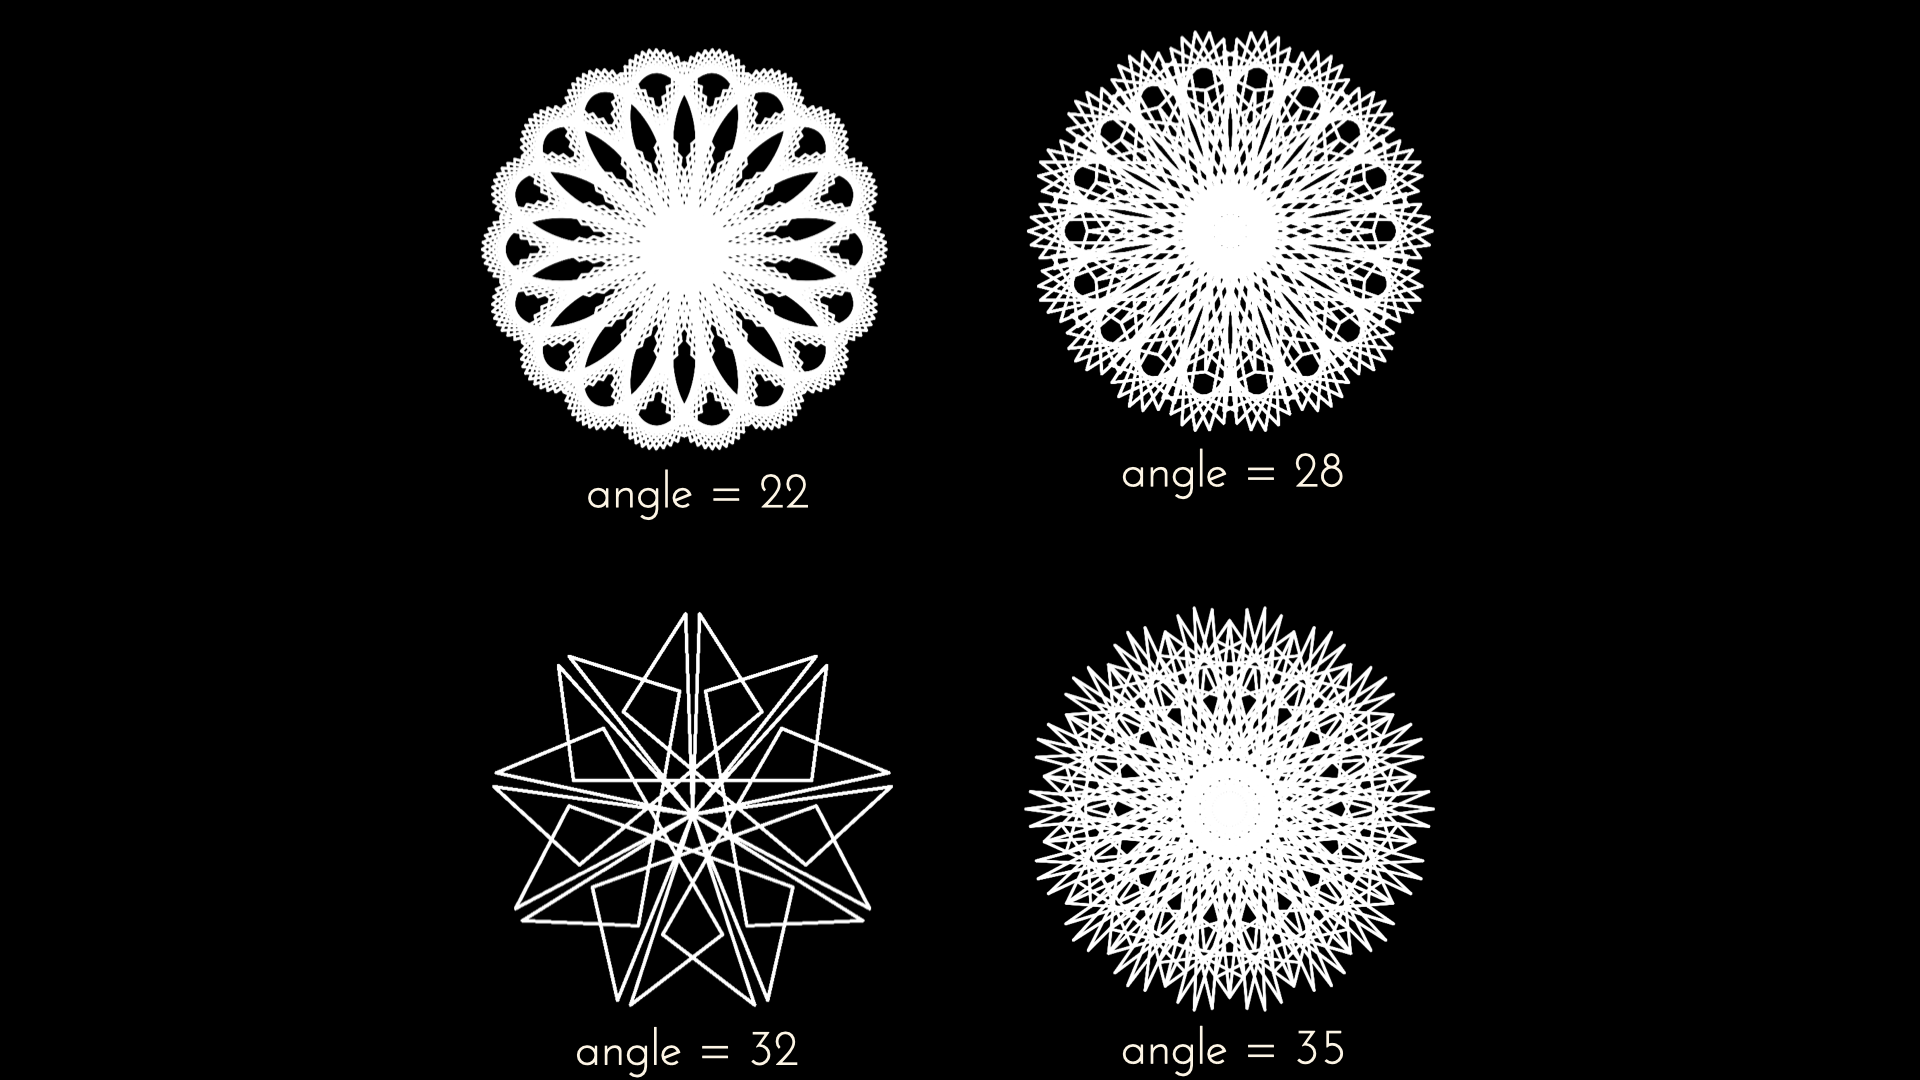
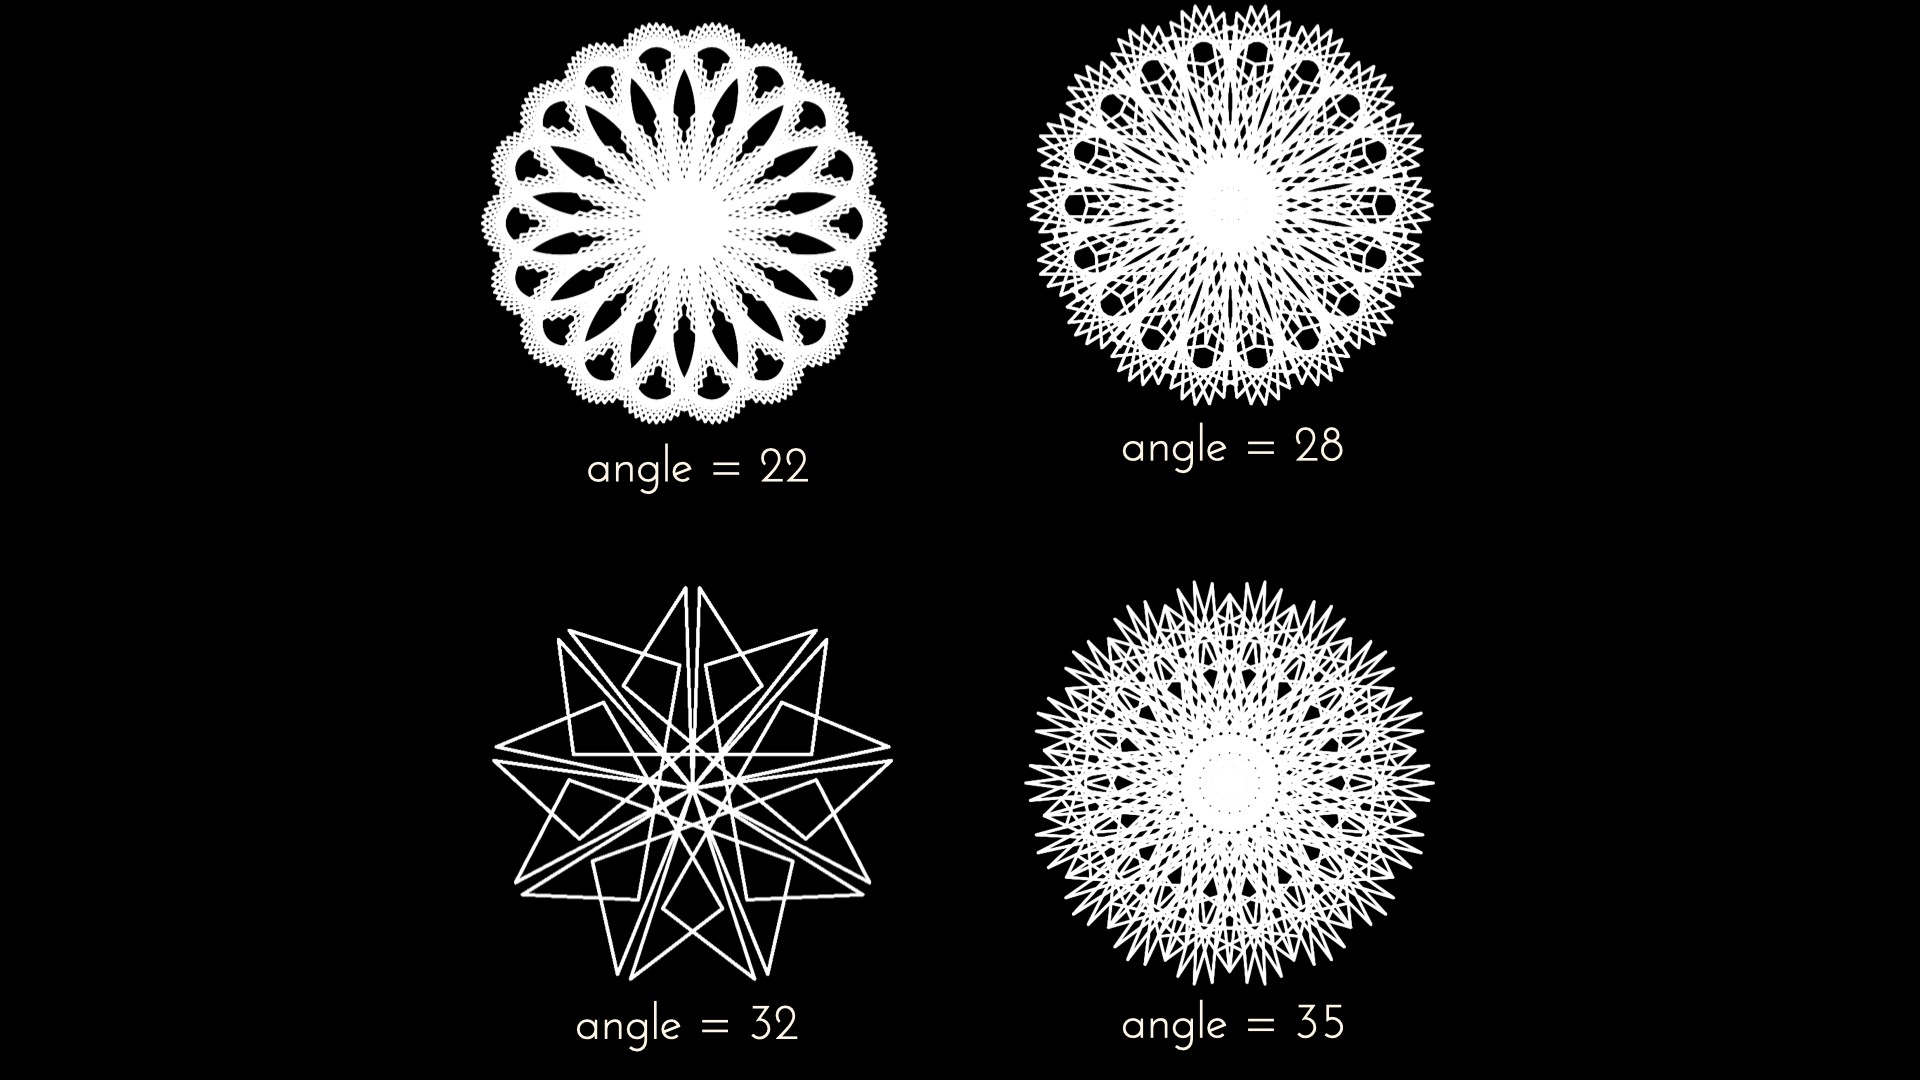
feat: completed article about rose curve

diff --git a/articles/rose-curve-variations.md b/articles/rose-curve-variations.md
@@ -1,8 +1,8 @@
 ---
-title: "バラ曲線を微分・積分して楽しい絵を描く"
+title: "バラ曲線を変化させて美しい絵を描く"
 emoji: "🎨"
 type: "tech"
-topics: ["p5js", "Generative Art", "備忘録", ""]
+topics: ["p5js", "Generative Art", "備忘録"]
 published: false
 ---
 
@@ -10,13 +10,12 @@ published: false
 
 今回はバラ曲線（rose curve）を触っていて面白いものが描けたので，備忘録として書き残しておきます．
 
-※ご存じの方には「あ〜，あれね」となるかもしれませんが，ご容赦ください🙇
 
 # バラ曲線とは？
 
 __正葉曲線，別名バラ曲線（rose curve）__ とは，ざっくり言うと極座標 `(r, θ)` において，以下の方程式で表される曲線のことです💁
 
-![バラ曲線の方程式](https://vantan-techford-p5js-slide.vercel.app/13/assets/rose-equation.600a7b37.png =300x)
+![バラ曲線の方程式](https://vantan-techford-p5js-slide.vercel.app/13/assets/rose-equation.600a7b37.png =250x)
 
 極座標ですので，直交座標（厳密にはデカルト座標）に変換する必要があり，上記の式で導出された `r` を用いて以下の式で直交座標に戻してあげます．[^1]
 
@@ -69,7 +68,7 @@ function draw() {
 
 ![バラ曲線のコードと実行結果](https://storage.googleapis.com/zenn-user-upload/fcb718e760f4-20230116.png)
 # 色々弄って遊ぶ
-ここから少しずつ色々弄ってみます 🙋
+ここから少しずつ変化させて遊んでいきます🙋
 
 ## アニメーション化
 
@@ -101,7 +100,7 @@ function draw() {
 +   x = range * cos(angle);
 +   y = range * sin(angle);
 +   point(x, y)
-+   angle++;
++   angle += 2;
   }
 ```
 
@@ -131,7 +130,7 @@ function draw() {
    y = range * sin(angle);
 -  point(x, y);
 +  line(bx, by, x, y);
--  angle++;
+-  angle += 2;
 +  angle += 3;
   }
 ```
@@ -184,13 +183,15 @@ function draw() {
 ![angle を大きくした場合のバラ曲線のプロット](/images/big_angle_rose_curve.png)
 
 
-上手いことカクついたそれぞれの頂点が重なり合って __結晶のように見えませんか？__ さらにこの値を大きくしてみましょう．`angle = 22, 28, 32, 35` 辺りが個人的には好きなのでキャプチャを貼っつけます💁[^3]
+上手いことカクついたそれぞれの頂点が重なり合って __結晶のように見えませんか？__ 偶然この絵を見つけましたが，線分の長さといわゆる「葉」の部分が描かれる `angle` の周期を考えると納得が行くかもしれません（？）
+
+ではさらにこの値を大きくしてみましょう．`angle = 22, 28, 32, 35` 辺りの絵が個人的には好きですね💁[^3]
 
 [^3]: 綺麗な絵を描きたいので，ついでに線の太さを細くしています．
 
 ![色々なangleのバラ曲線](/images/various_rose_curve.png)
 
-今度は重なる周期がかなり遅くなってしまいますが，何度も塗りつぶされることで __魔法陣・エンブレム__ のような見た目に大変身したではないですか．個人的にはこの絵が描かれる過程も見ていて面白かったです😄
+こちらは重なる周期がかなり遅くなってしまいますが，何度も塗りつぶされることで __魔法陣・エンブレム__ のような見た目に大変身したではないですか．個人的にはこの絵が描かれる過程も見ていて面白かったです😄
 
 ちなみにこの状態で先程のように色をつけますと，流石にエンブレム調の方は色が多すぎて五月蝿いかなと．逆に `angle` の値を小さくした場合は以下のように
 
@@ -203,6 +204,6 @@ function draw() {
 
 # 終わりに
 
-いかがだったでしょうか？人によっては小学校のときに遊んだ __{名前}__ を思い出された方もいらっしゃるかと思います．改めて数学の美しさと偶然性と共存する楽しさを味わえた時間でしたので，共有してみました．
+いかがだったでしょうか？人によっては子供のときに遊んだ __スピログラフ__ を思い出された方もいらっしゃるかもしれません．改めて数学の美しさと偶然性と共存する楽しさを味わえた時間だったので，ご興味ある方は試してみてくださいー．
 
 ではでは(=ﾟωﾟ)ﾉ
